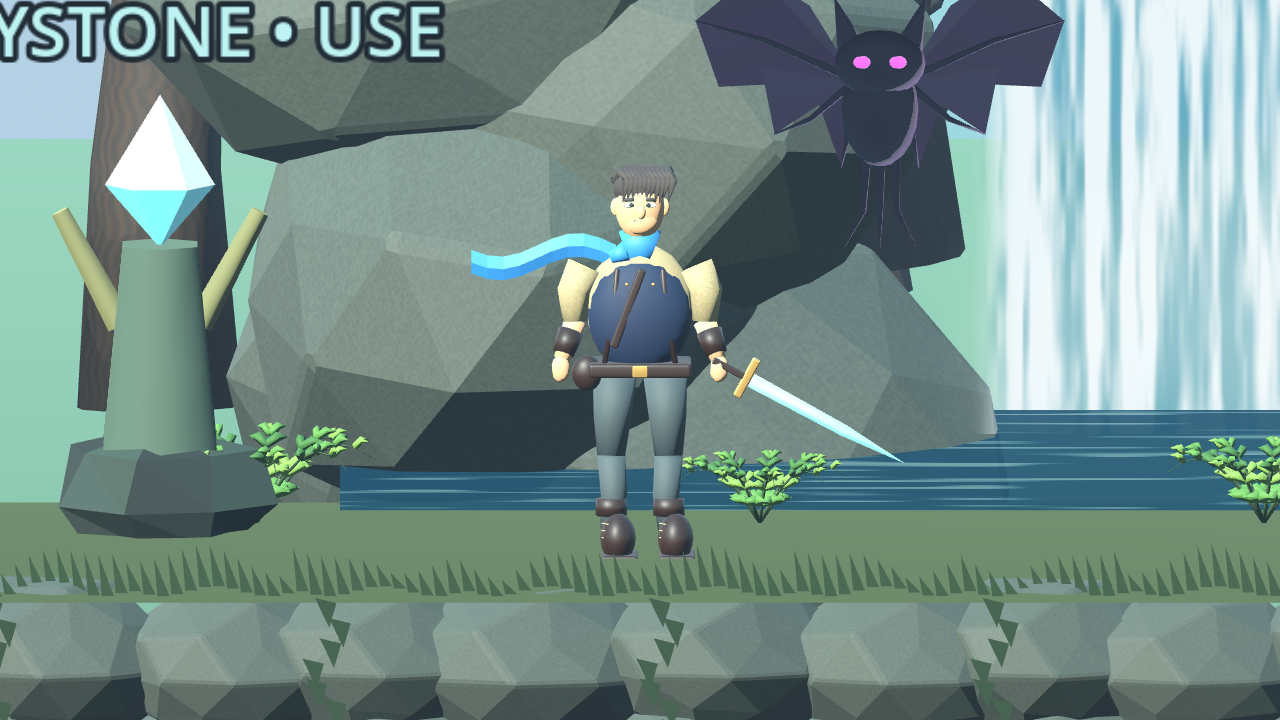
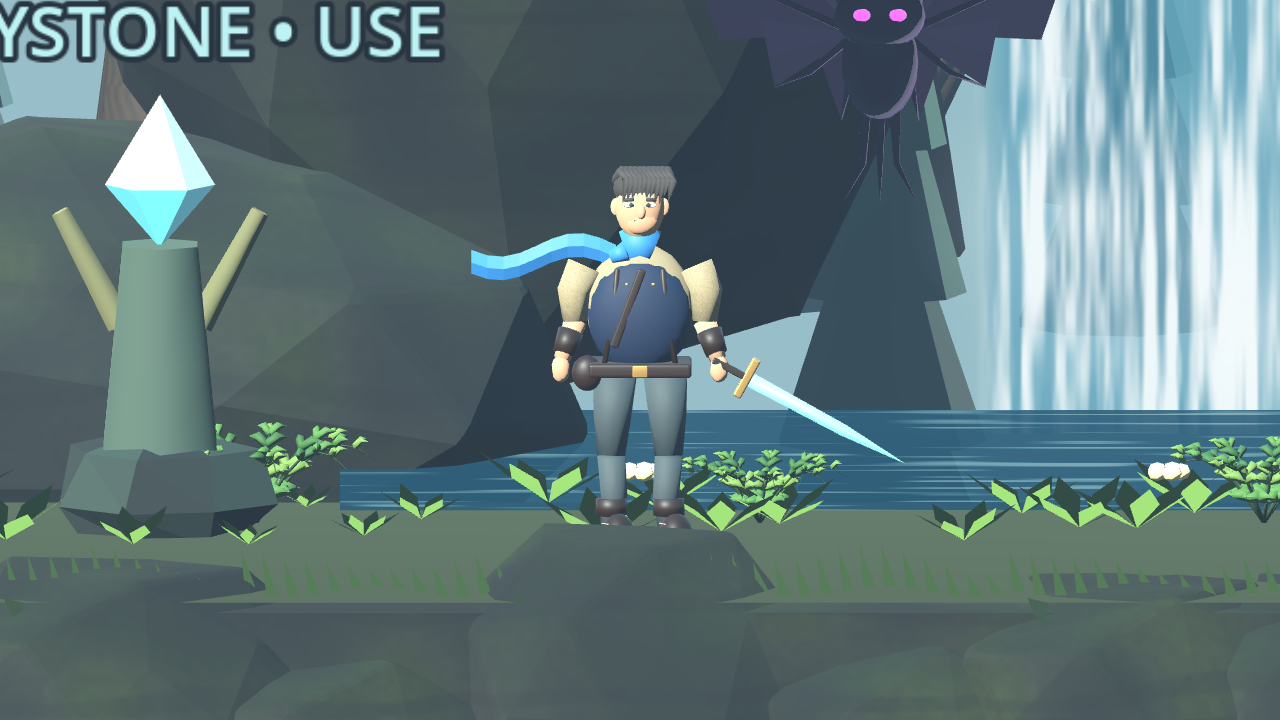
Refine Willowbrook scenery depth, rock materials and forest layers

diff --git a/docs/visual-review.html b/docs/visual-review.html
@@ -5,5 +5,6 @@
 <details><summary>Previous rejected forest capture</summary><img src="forest-before.png" alt="Previous rejected scene"></details>
 <section><h2>Character inspection</h2><p>The following is a separate engine close-up, not the gameplay camera scale.</p><a href="kael-detail.png"><img src="kael-detail.png" alt="Current Kael engine close-up"></a>
 <h2>Review notes</h2><ul><li>Replaced Kael's cylinder/box body with a Blender-authored tapered figure, modeled face, swept hair, layered vest/linen, belt/pouch, laced boots, bracers and cloth scarf. Added breathing, knee bend and grounded/jump poses while retaining combat timings.</li><li>Replaced angular crown blobs with branching trees and individual leaves, plus modeled ferns; retained simpler background castle and existing NPCs outside the representative forest.</li><li>Replaced triangle-strip rock walls with textured, irregular, instanced stone geometry and varied overlap. The original collision-aligned walking surface remains simple and reliable.</li><li>Replaced the winged crystal enemy silhouette with an original wing membrane creature. Its behavior/collision remain unchanged.</li><li>Reworked water with scrolling multi-scale noise, foam highlights and a bounded 16-particle mist emitter; directional sunlight and limited foreground foliage shadows provide contrast.</li></ul>
+<h2>Scenery refinement</h2><p>The current capture includes layered mountain and forest silhouettes, batched ground vegetation and flowers, deeper terrain faces, a world-space moss/stone shader and unequal waterfall cliff masses. No physics, controls, quest or save rules were changed. These are incremental changes, not concept parity. <a href="scenery-pass.md">Evidence and limitations</a>.</p><details><summary>Blender pass before scenery refinement</summary><img src="forest-blender-baseline.png" alt="Previous Blender forest capture before scenery refinement"></details>
 <h2>Gaps that remain</h2><p>The concept still has much richer vegetation, more organic cliff composition, superior material painting, cloud/atmosphere detail, character animation and cinematic lighting. The current stones and waterfall framing remain visibly modular; the distant castle is legacy art. NPC duplication outside this scene has not been solved in this milestone. Synthesized audio is still temporary. This candidate requires the user's visual approval; it is not a finished or approved reproduction.</p>
 <p>Android hardware performance, actual multitouch/lifecycle delivery and thermal behavior remain unverified. No phone or emulator is attached. Desktop software-renderer captures and automated tests are not Android measurements.</p></section></html>

diff --git a/docs/scenery-pass.md b/docs/scenery-pass.md
@@ -1,0 +1,34 @@
+# Willowbrook scenery refinement — 27 October 2026
+
+This is an incremental presentation pass on top of `53a05ea`, not final art approval or a claim of matching the generated concept.
+
+## Changes
+
+- Added distant mountain silhouettes and two forest layers, with the conifers batched into two MultiMeshes.
+- Added ground leaves and warm flower clusters in two more MultiMeshes. Decorative vegetation excludes the route's actual pit.
+- Deepened the ground fascia, varied stone scale and placement, and filled gaps with a presentation-only bedrock backing. Existing terrain collision bodies are unchanged.
+- Replaced repeated waterfall stone columns with unequal overlapping cliff masses using the existing original Blender stone asset.
+- Added an original world-space rock shader with grain, strata and slope-based moss; adjusted sun, ambient color and fog.
+- Kept the current Kael model, animations, three hearts, magic bar and phone controls. No new regions were added.
+
+## Actual images
+
+Before this pass:
+
+![Previous Blender forest](forest-blender-baseline.png)
+
+Current engine capture:
+
+![Current forest](forest.png)
+
+The capture script stages the player's position in the real playable scene. It is not a human playtest. The half-heart loss visible in the forest capture comes from the live encounter during capture; no artificial health or HUD changes were introduced.
+
+## Validation and limits
+
+See `scenery-pass-checks.txt` for this pass's headless gameplay checks, and `scenery-pass-render.txt` for the engine capture log. Captures use Godot 4.6.3 Compatibility with Mesa llvmpipe on Linux. These are software-renderer captures, not Android performance measurements. Previous rendered assertion reports belong to the previous revision unless explicitly rerun.
+
+The APK was not rebuilt for this pass: Android SDK, templates and the prior test signing key are not restored in this checkout. The earlier APK therefore does not include these changes. No Android device or emulator test was performed.
+
+## Still below the reference
+
+Cliffs and waterfall remain simplified; the foliage is sparse compared with the concept, and the scene still needs stronger authored composition and painted material detail. Kael's proportions/animation and the legacy village NPCs, boss and castle need further work. A full environment/character art pass is still required. This pass does not solve those gaps or establish visual approval.

diff --git a/docs/ATTRIBUTION.md b/docs/ATTRIBUTION.md
@@ -12,3 +12,7 @@
 `art/forest_blender.py` is the original asset source for this revision; `art/source/forest.blend` contains editable Blender scenes. Authored and exported with **Blender 4.3.2** into `assets/forest/*.glb`: Kael, rounded stone, branching oak/individual leaves, fern, worn arch, timber cottage, and winged enemy. Embedded material grain is generated mathematically by the script, not copied from the concept or a texture library. No external models, photographs, stock textures, or additional third-party asset licenses were introduced. Blender is GPL software; the original exported artwork is not made GPL merely by use of Blender. Project asset distribution licensing remains the owner's decision.
 
 Rebuild with `blender -b --python art/forest_blender.py`, then run Godot editor import. The native source folder has `.gdignore` so Godot does not also import the authoring file. `art/build_models.gd` remains the legacy generator; it does **not** replace the new GLB models. Legacy NPCs, boss and distant castle are still visibly different and are not represented as finished forest art. Water and mist are original engine effects; audio remains temporary.
+
+## Scenery refinement source
+
+`scripts/forest_detail.gd` builds deterministic mountain meshes, instanced conifers, ground leaves and flower clusters. `assets/shaders/forest_stone.gdshader` generates world-space grain, moss and strata mathematically. `scripts/scenery.gd` assembles the existing original Blender stones into terrain and unequal waterfall cliffs. No downloaded implementation assets or additional third-party licenses were introduced.

diff --git a/docs/validation.md b/docs/validation.md
@@ -36,3 +36,7 @@ Install and play on a named Android phone: physical multitouch, release/cancel, 
 ## Blender forest visual-review revision
 
 The same 86 gameplay assertions pass after swapping the forest assets and adding limb posing; terrain colliders, AI, combat timings, quest/save rules and controls are preserved. Current rendered logs are replaced with the revision's actual runs. Visual review is documented separately in `forest-revision.md` and `visual-review.html`; assertions are not proof of artistic quality. Current captures include an explicitly labeled close-up in addition to the gameplay camera. No full human interactive playtest or Android measurement was performed for this art revision. A fresh `adb devices -l` returned an empty device list.
+
+## Scenery refinement — 27 October 2026
+
+Reran all four headless suites on the final scenery code: 37 regression, 15 journey, 4 exploration, and 30 input/safety assertions passed (86 total). See `scenery-pass-checks.txt`. Regenerated and visually inspected the gameplay captures with Godot 4.6.3 Compatibility / Mesa llvmpipe; see `scenery-pass-render.txt`. The 67 rendered assertions from the previous Blender revision were not rerun for this pass. A headless shutdown reported an ObjectDB cleanup warning; the full warning is retained in the log. The APK was not rebuilt and no Android or human playtest was performed.

diff --git a/README.md b/README.md
@@ -49,6 +49,12 @@ Talk to **Lyra** near the spawn to receive the quest. Head east, jump the forest
 
 Progress lives in Godot's `user://journey.json`; the previous valid save is `journey.json.bak`. In this cloud machine these are under `/workspace/.local/share/godot/app_userdata/Shadowblade- The Last Guardian/`. Tests use separate slots and do not touch the player's save. Restarting loads the saved checkpoint, not an unfinished combat state.
 
+## Scenery refinement pass
+
+The current screenshots include a further presentation-only pass: layered mountain and forest silhouettes, batched undergrowth and flowers, deeper irregular terrain faces, a world-space moss/stone shader, and unequal waterfall cliff masses. Collision surfaces, player controls, combat, quests, and saves are unchanged. [Review the changes and limits](docs/scenery-pass.md).
+
+This remains below the approved concept. Kael, legacy NPCs, animation, waterfall shaping, canopy richness, and material painting still need substantial art work. The existing Android APK predates this scenery pass; it has **not** been rebuilt or device-tested in this checkout.
+
 ## Actual gameplay captures
 
 These are engine-rendered screenshots of this prototype using Mesa llvmpipe on Linux. They are **not concept art** or images of the absent reference sample. The capture script stages positions in the real scene.
